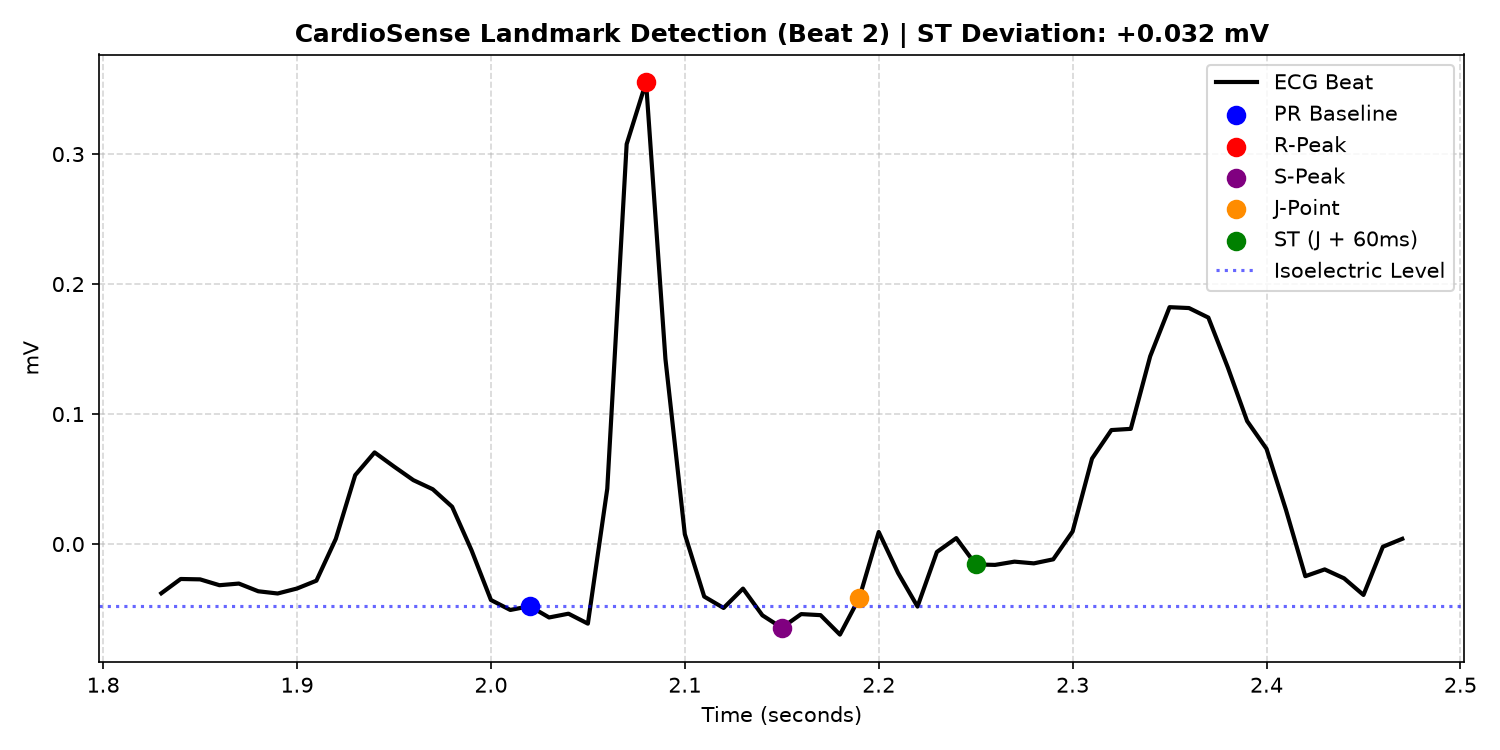
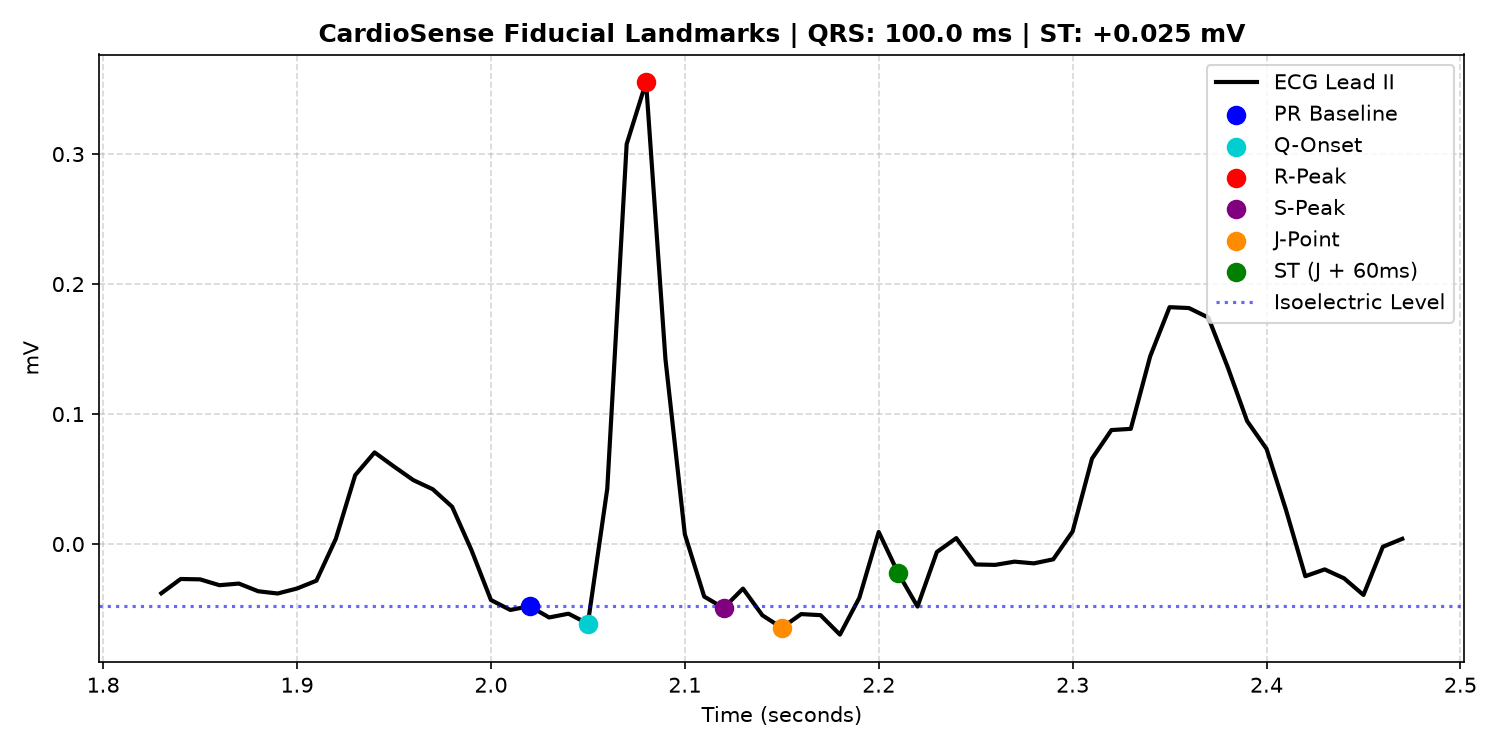
fix(dsp): implement dynamic Q-onset detection and restore physiological QRS duration

diff --git a/src/features/fiducials.py b/src/features/fiducials.py
@@ -11,44 +11,75 @@ import numpy as np
 # ---------------------------------------------------------
 def delineate_beat_landmarks(lead_signal, r_peak_idx, fs=100.0):
     """
-    Finds fiducial points around a single R-peak:
-    - Q-onset / Isoelectric point (PR baseline): ~60 ms before R
-    - S-peak: lowest valley right after R (within 80 ms)
-    - J-point: inflection point where S-wave slope flattens out
+    Finds physiological fiducial landmarks around a single R-peak:
+    - Base idx: Isoelectric PR reference (~60 ms before R)
+    - Q-onset: Inflection / trough where QRS depolarization begins
+    - S-peak: First local minimum following R-wave downstroke
+    - J-point: End of S-wave upstroke returning toward baseline
+    - ST point: Standard clinical measurement at J + 60 ms
     """
     n_samples = len(lead_signal)
-    
-    # Baseline reference: PR segment (60 ms before R)
+
+    # 1. Isoelectric PR baseline reference: 60 ms before R-peak
     pr_offset = int(0.06 * fs)
     base_idx = max(0, r_peak_idx - pr_offset)
     baseline_voltage = lead_signal[base_idx]
 
-    # S-peak: local minimum within 80 ms after R-peak
-    post_window = int(0.08 * fs)
-    s_search_end = min(n_samples, r_peak_idx + post_window)
-    if s_search_end > r_peak_idx:
-        s_peak_idx = r_peak_idx + np.argmin(lead_signal[r_peak_idx:s_search_end])
-    else:
-        s_peak_idx = r_peak_idx
+    # 2. Dynamic Q-onset detection: scan backwards up to 60 ms before R
+    pre_window = int(0.06 * fs)
+    start_q = max(0, r_peak_idx - pre_window)
+    segment_q = lead_signal[start_q : r_peak_idx + 1]
 
-    # J-point: end of the S-wave slope (~40 ms after S-peak)
-    j_offset = int(0.04 * fs)
+    # Locate Q-trough (minimum within search window)
+    q_onset_rel = np.argmin(segment_q)
+    q_onset_idx = start_q + q_onset_rel
+
+    # If minimum is at the edge (flat PR segment), find steep upstroke onset
+    if q_onset_idx == start_q and len(segment_q) > 2:
+        diffs = np.diff(segment_q)
+        max_diff = np.max(diffs)
+        for i in range(len(segment_q) - 1, 0, -1):
+            if diffs[i - 1] < 0.25 * max_diff:
+                q_onset_idx = start_q + i
+                break
+
+    # 3. S-peak: first local minimum immediately following R downstroke (within 70 ms)
+    post_window = int(0.07 * fs)
+    s_search_end = min(n_samples, r_peak_idx + post_window)
+    s_peak_idx = r_peak_idx
+
+    for i in range(r_peak_idx + 1, s_search_end - 1):
+        if lead_signal[i] <= lead_signal[i - 1] and lead_signal[i] <= lead_signal[i + 1]:
+            s_peak_idx = i
+            break
+
+    # Fallback if no distinct trough found
+    if s_peak_idx == r_peak_idx and s_search_end > r_peak_idx:
+        s_peak_idx = r_peak_idx + np.argmin(lead_signal[r_peak_idx:s_search_end])
+
+    # 4. J-point: end of S-wave upstroke (~30 ms after S-peak at 100 Hz)
+    j_offset = int(0.03 * fs)
     j_point_idx = min(n_samples - 1, s_peak_idx + j_offset)
 
-    # Standard clinical ST measurement point: J + 60 ms
+    # 5. Clinical ST measurement point: J + 60 ms
     st_offset = int(0.06 * fs)
     st_measure_idx = min(n_samples - 1, j_point_idx + st_offset)
 
-    # ST deviation = voltage at (J + 60 ms) minus baseline voltage (in mV)
+    # ST deviation relative to PR isoelectric baseline (in mV)
     st_deviation_mv = float(lead_signal[st_measure_idx] - baseline_voltage)
+
+    # QRS duration from Q-onset to J-point (in ms)
+    qrs_duration_ms = (j_point_idx - q_onset_idx) / fs * 1000.0
 
     return {
         "base_idx": base_idx,
+        "q_onset_idx": q_onset_idx,
         "r_peak_idx": r_peak_idx,
         "s_peak_idx": s_peak_idx,
         "j_point_idx": j_point_idx,
         "st_measure_idx": st_measure_idx,
         "st_deviation_mv": round(st_deviation_mv, 3),
+        "qrs_duration_ms": round(float(qrs_duration_ms), 1),
     }
 
 
@@ -58,13 +89,13 @@ def delineate_beat_landmarks(lead_signal, r_peak_idx, fs=100.0):
 def extract_lead_st_deviation(lead_signal, r_peaks, fs=100.0):
     """
     Calculates median ST deviation across all valid beats in a lead.
-    Using the median makes the metric robust against isolated premature beats or noise.
+    The median provides noise-rejection against ectopic beats or baseline jitter.
     """
     if len(r_peaks) == 0:
         return 0.0
 
     beat_deviations = []
-    # Skip the very first and last beat to avoid edge cutoffs
+    # Skip edge beats
     valid_peaks = r_peaks[1:-1] if len(r_peaks) > 2 else r_peaks
 
     for r in valid_peaks:
@@ -83,7 +114,7 @@ def analyze_12lead_features(ecg_signals, r_peaks, lead_names, fs=100.0):
     Extracts clinical features across all 12 leads:
     - Per-lead ST deviation (mV)
     - Maximum ST elevation and depression
-    - QRS duration (ms)
+    - QRS duration (ms) from representative Lead II
     """
     num_leads = ecg_signals.shape[1]
     st_results = {}
@@ -93,15 +124,18 @@ def analyze_12lead_features(ecg_signals, r_peaks, lead_names, fs=100.0):
         st_val = extract_lead_st_deviation(ecg_signals[:, i], r_peaks, fs=fs)
         st_results[lead_name] = st_val
 
-    # Estimate average QRS duration from representative Lead II
+    # Lead II representative beat for rhythm & conduction timing
     lead_ii_idx = lead_names.index("II") if "II" in lead_names else 1
-    sample_landmarks = delineate_beat_landmarks(ecg_signals[:, lead_ii_idx], r_peaks[1], fs=fs) if len(r_peaks) > 1 else None
-    
+    sample_landmarks = (
+        delineate_beat_landmarks(ecg_signals[:, lead_ii_idx], r_peaks[1], fs=fs)
+        if len(r_peaks) > 1
+        else None
+    )
+
     if sample_landmarks:
-        # QRS width: duration from Q-onset to J-point in milliseconds
-        qrs_duration_ms = (sample_landmarks["j_point_idx"] - sample_landmarks["base_idx"]) / fs * 1000.0
+        qrs_duration_ms = sample_landmarks["qrs_duration_ms"]
     else:
-        qrs_duration_ms = 90.0  # Standard default if not enough beats
+        qrs_duration_ms = 90.0
 
     all_st_values = list(st_results.values())
     max_elevation = max(all_st_values)

diff --git a/tests/test_fiducials.py b/tests/test_fiducials.py
@@ -1,7 +1,7 @@
 """
 CardioSense - Fiducial Landmark Verification Test
-Plots a zoomed-in heartbeat with PR-baseline, R, S, J-point, and ST-measurement point.
-Saves the plot to docs/figures/ for clinical documentation.
+Plots a zoomed-in heartbeat with PR-baseline, Q-onset, R, S, J-point, and ST measurement.
+Saves the updated plot to docs/figures/05_beat_landmarks.png.
 """
 
 import sys
@@ -41,7 +41,7 @@ r_peaks = detect_r_peaks(lead_ii, fs=fs)
 analysis = analyze_12lead_features(cleaned_signals, r_peaks, lead_names, fs=fs)
 
 print("=" * 50)
-print(f"Estimated QRS Duration : {analysis['qrs_duration_ms']} ms")
+print(f"Estimated QRS Duration : {analysis['qrs_duration_ms']} ms (physiological: 80-120 ms)")
 print(f"Max ST Elevation       : {analysis['max_st_elevation_mv']} mV")
 print(f"Max ST Depression      : {analysis['max_st_depression_mv']} mV")
 print("\nST Deviation by Lead (mV):")
@@ -50,12 +50,12 @@ for lead, val in analysis["st_by_lead"].items():
 print("=" * 50)
 
 # ---------------------------------------------------------
-# Block 3: Delineate landmarks for a single representative beat (Beat 2)
+# Block 3: Delineate landmarks for representative Beat 2
 # ---------------------------------------------------------
 target_beat_r = r_peaks[2]
 lm = delineate_beat_landmarks(lead_ii, target_beat_r, fs=fs)
 
-# Zoom in on window +/- 250 ms around the beat
+# Zoom window: +/- 250 ms around the beat
 start_sample = target_beat_r - int(0.25 * fs)
 end_sample = target_beat_r + int(0.40 * fs)
 beat_time = time_axis[start_sample:end_sample]
@@ -65,30 +65,31 @@ beat_signal = lead_ii[start_sample:end_sample]
 # Block 4: Plot Zoomed Heartbeat with Landmark Markers
 # ---------------------------------------------------------
 plt.figure(figsize=(10, 5))
-plt.plot(beat_time, beat_signal, color="black", linewidth=2.0, label="ECG Beat")
+plt.plot(beat_time, beat_signal, color="black", linewidth=2.0, label="ECG Lead II")
 
 # Landmark markers
 plt.scatter(time_axis[lm["base_idx"]], lead_ii[lm["base_idx"]], color="blue", s=70, zorder=5, label="PR Baseline")
+plt.scatter(time_axis[lm["q_onset_idx"]], lead_ii[lm["q_onset_idx"]], color="darkturquoise", s=70, zorder=5, label="Q-Onset")
 plt.scatter(time_axis[lm["r_peak_idx"]], lead_ii[lm["r_peak_idx"]], color="red", s=70, zorder=5, label="R-Peak")
 plt.scatter(time_axis[lm["s_peak_idx"]], lead_ii[lm["s_peak_idx"]], color="purple", s=70, zorder=5, label="S-Peak")
 plt.scatter(time_axis[lm["j_point_idx"]], lead_ii[lm["j_point_idx"]], color="darkorange", s=70, zorder=5, label="J-Point")
 plt.scatter(time_axis[lm["st_measure_idx"]], lead_ii[lm["st_measure_idx"]], color="green", s=70, zorder=5, label="ST (J + 60ms)")
 
-# Draw baseline reference line
+# Isoelectric reference line
 plt.axhline(lead_ii[lm["base_idx"]], color="blue", linestyle=":", alpha=0.6, label="Isoelectric Level")
 
-plt.title(f"CardioSense Landmark Detection (Beat 2) | ST Deviation: {lm['st_deviation_mv']:+.3f} mV", fontsize=12, fontweight="bold")
+plt.title(f"CardioSense Fiducial Landmarks | QRS: {lm['qrs_duration_ms']} ms | ST: {lm['st_deviation_mv']:+.3f} mV", fontsize=12, fontweight="bold")
 plt.xlabel("Time (seconds)", fontsize=10)
 plt.ylabel("mV", fontsize=10)
 plt.grid(True, linestyle="--", alpha=0.5)
 plt.legend(loc="upper right")
 plt.tight_layout()
 
-# Save to docs/figures/
+# Save updated figure
 figures_dir = project_root / "docs" / "figures"
 figures_dir.mkdir(parents=True, exist_ok=True)
 save_path = figures_dir / "05_beat_landmarks.png"
 plt.savefig(save_path, dpi=150)
-print(f"\n[Saved verification plot to: {save_path.relative_to(project_root)}]")
+print(f"\n[Saved updated verification plot to: {save_path.relative_to(project_root)}]")
 
 plt.show()
